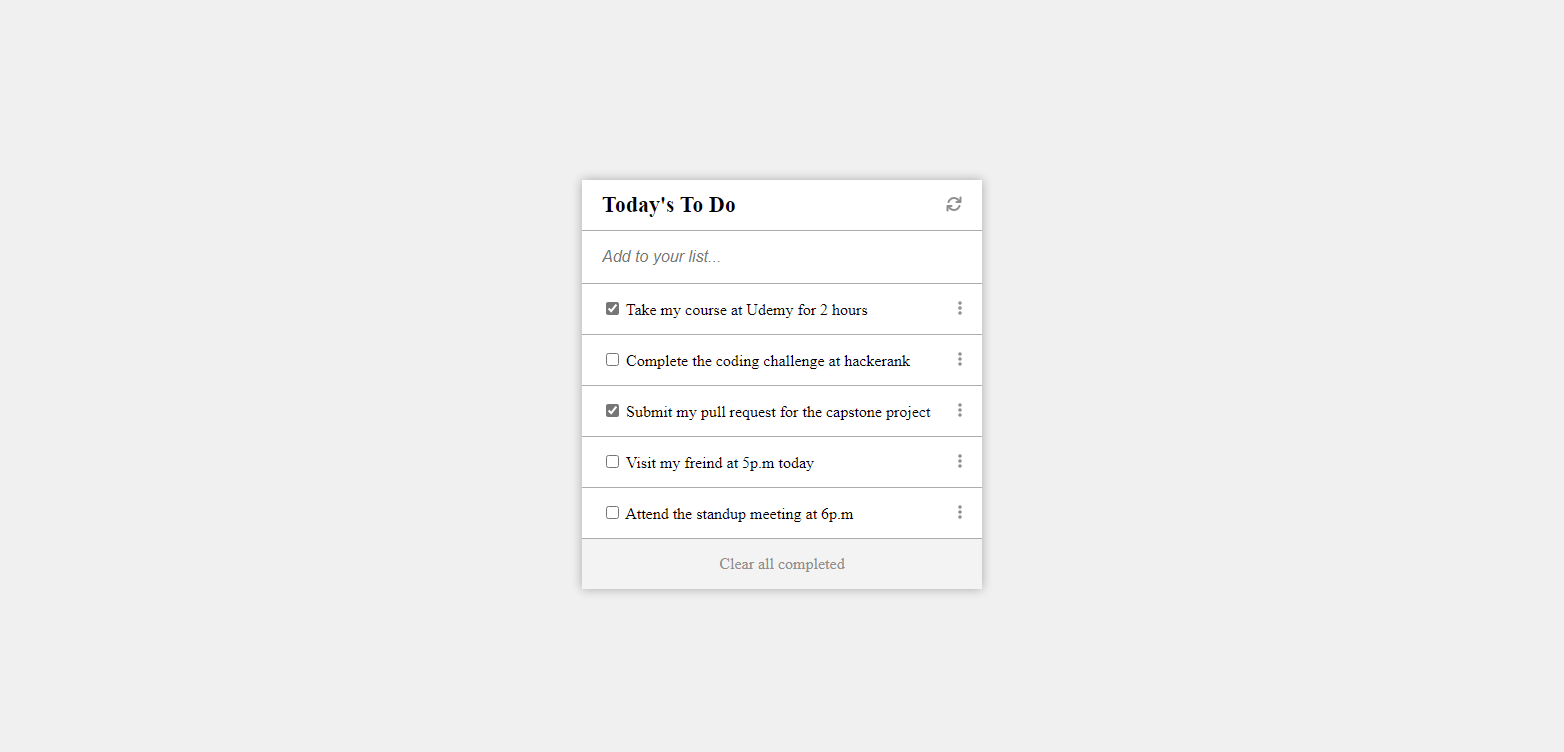
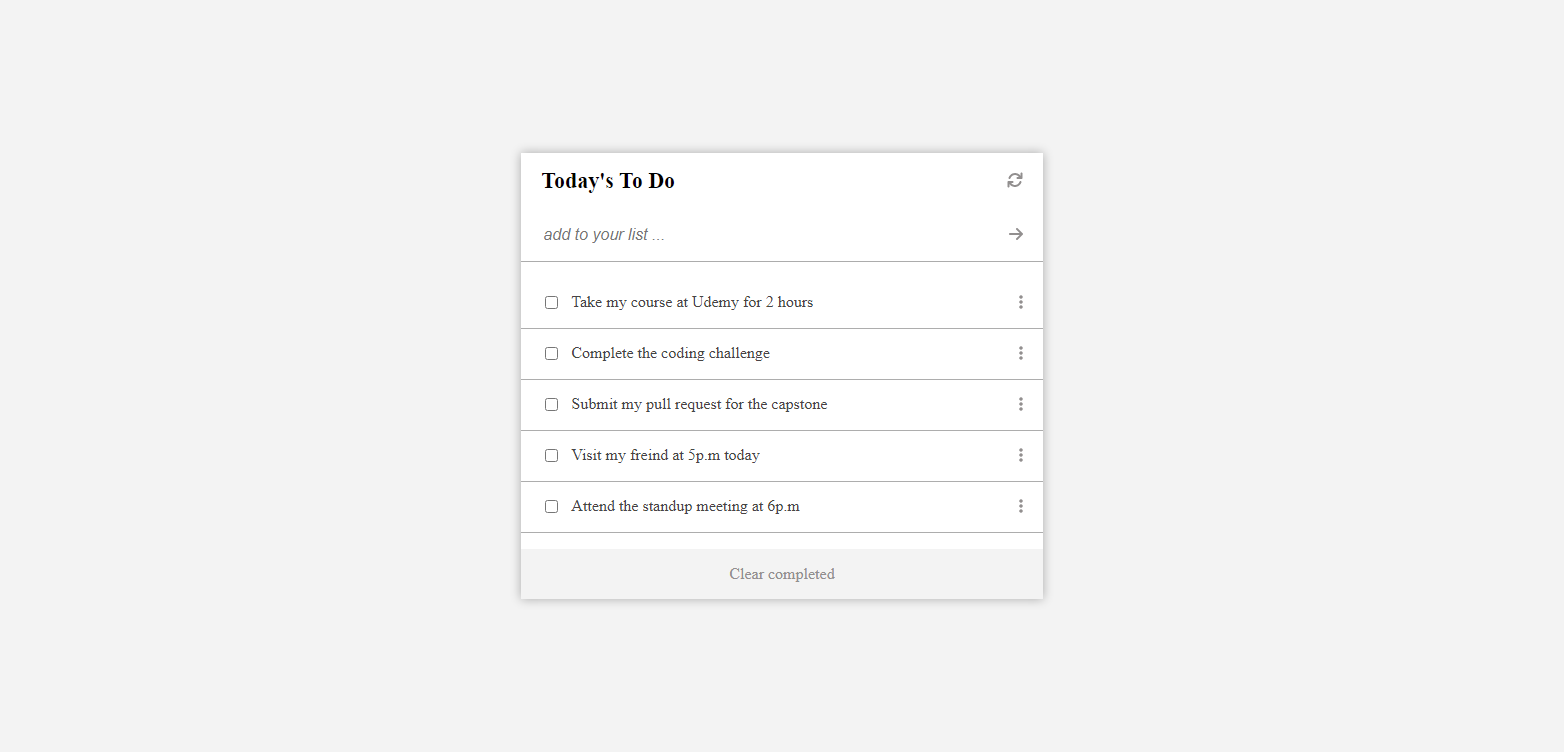
Todo list structure

Changed region(s): [[0.3376, 0.2141, 0.6752, 0.734], [0.3683, 0.734, 0.6138, 0.7952]]

diff --git a/src/style.css b/src/style.css
@@ -1,15 +1,24 @@
-* {
+body {
+  box-sizing: border-box;
   margin: 0;
   padding: 0;
-  box-sizing: border-box;
-}
-html {
-  height: 100%;
-}
-body {
   min-height: 100vh;
-  margin: 0 auto;
-  background-color: #f0f0f0;
+  height: 100%;
+  background-color: #f3f3f3;
+}
+
+.main-container {
+  display: grid;
+  grid-template-columns: repeat(12, 1fr);
+  grid-template-rows: 1fr 1fr 1fr;
+  height: 100vh;
+}
+
+.form {
+  grid-column: 5/9;
+  grid-row: 2/3;
+  background-color: white;
+  box-shadow: 0 0 10px rgba(0, 0, 0, 0.3);
 }
 
 .todo-list {
@@ -19,23 +28,18 @@ body {
   padding: 0;
 }
 
-.form {
-  display: flex;
-  flex-direction: column;
-  height: auto;
-  width: 100%;
-  background-color: white;
-  box-shadow: 0 0 10px rgba(0, 0, 0, 0.3);
-}
-
 .input-todo {
   height: 50px;
   border: none;
-  padding-left: 20px;
-  padding-right: 20px;
-  width: 90%;
   font-style: italic;
   font-size: 16px;
+}
+
+.title-wrapper {
+  display: flex;
+  align-items: center;
+  justify-content: space-between;
+  padding: 0 20px;
 }
 
 .title {
@@ -51,21 +55,18 @@ body {
   height: 50px;
   align-items: center;
   justify-content: center;
-  /* background-color: #f3f3f3; */
-  background-color: darkgrey;
+  background-color: #f3f3f3;
 }
 
 .myFooter a {
   text-decoration: none;
-  /* color: #928f8f; */
-  color: black;
+  color: #928f8f;
 }
 
 .main-header {
   width: 100%;
   height: 100px;
   background-color: #928f8f;
-  /* margin-top: -60px; */
 }
 
 .myFooter a:hover {
@@ -95,6 +96,7 @@ body {
   align-items: center;
   justify-content: space-between;
   border-bottom: 1px solid rgb(172, 172, 172);
+  padding: 0 20px;
 }
 
 .header {
@@ -103,7 +105,6 @@ body {
   justify-content: space-between;
   align-items: center;
   height: 50px;
-  width: 100%;
   padding-left: 20px;
   padding-right: 20px;
   border-bottom: 1px solid rgb(172, 172, 172);
@@ -113,52 +114,30 @@ body {
   color: rgb(71, 69, 69);
 }
 
-.main-container {
+.content {
+  justify-content: space-between;
   display: flex;
-  justify-content: center;
-  flex-direction: column;
-  align-items: center;
-  height: 100vh;
-  /* width: 500px; */
-  /* margin-top: -30px; */
+  column-gap: 10px;
 }
 
-.content {
+.content span {
   color: rgb(71, 69, 69);
 }
 
 @media screen and (min-width: 320px) {
-  .main-container {
-    width: 90%;
-    margin-left: auto;
-    margin-right: auto;
-  }
-}
-@media screen and (min-width: 768px) {
-  .main-container {
-    width: 80%;
-    margin-left: auto;
-    margin-right: auto;
-  }
   .form {
-    width: 80%;
-  }
-  .myFooter {
-    width: 100%;
+    grid-column: 3/11;
   }
 }
-@media screen and (min-width: 1024px) {
-  .main-container {
-    width: 60%;
-    margin-left: auto;
-    margin-right: auto;
+
+@media screen and (min-width: 768px) {
+  .form {
+    grid-column: 4/10;
   }
 }
 
 @media screen and (min-width: 1440px) {
-  .main-container {
-    width: 50%;
-    margin-left: auto;
-    margin-right: auto;
+  .form {
+    grid-column: 5/9;
   }
 }

diff --git a/src/modules.js b/src/modules.js
@@ -26,43 +26,4 @@ export const todoList = [
   },
 ];
 
-export const outerHeader = document.createElement('header');
-outerHeader.classList.add('main-header');
 export const todoListElement = document.querySelector('.todo-list');
-export const form = document.createElement('form');
-export const header = document.createElement('div');
-export const headerText = document.createElement('h1');
-export const clear = document.createElement('a');
-clear.href = '#';
-headerText.classList.add('title');
-export const headerImg = document.createElement('span');
-
-headerText.innerHTML = "Today's To Do";
-headerImg.innerHTML =
-  "<span class='icon'><i class='fa-solid fa-arrows-rotate'></i></span>";
-header.classList.add('header');
-export const footer = document.createElement('div');
-footer.classList.add('myFooter');
-clear.innerHTML = 'Clear all completed';
-
-export const inputContainer = document.createElement('div');
-inputContainer.classList.add('input-container');
-export const inputTodo = document.createElement('input');
-export const refreshImg = document.createElement('i');
-refreshImg.style.color = '#928f8f';
-inputTodo.placeholder = 'Add to your list...';
-
-export const mainContainer = document.createElement('div');
-
-export const append = () => {
-  inputContainer.appendChild(inputTodo);
-  inputContainer.appendChild(refreshImg);
-  inputTodo.classList.add('input-todo');
-  footer.appendChild(clear);
-  header.appendChild(headerText);
-  header.appendChild(headerImg);
-  form.appendChild(header);
-  form.appendChild(inputContainer);
-  form.classList.add('form');
-  mainContainer.classList.add('main-container');
-};

diff --git a/src/index.js b/src/index.js
@@ -1,50 +1,28 @@
 import '@fortawesome/fontawesome-free/js/all.js';
-import {
-  todoList,
-  todoListElement,
-  form,
-  footer,
-  mainContainer,
-  outerHeader,
-  inputTodo,
-  header,
-  refreshImg,
-  headerText,
-  headerImg,
-  clear,
-  append,
-  inputContainer,
-} from './modules.js';
+import { todoList, todoListElement } from './modules.js';
 
 import('./style.css');
 
-// document.body.appendChild(outerHeader);
 const todo = () => {
-  append();
-
   todoList.forEach((todo) => {
     const { completed, description } = todo;
-    let todoElement = document.createElement('li');
-    todoElement.innerHTML = `
-                  <div class='list-row'>
+    const todoElement = document.createElement('li');
+    let list = '';
+    list += `
                     <div class='content'>
                        <input type="checkbox" ${
-                         completed ? 'checked' : ''
-                       } class='input' />
+  completed ? 'checked' : ''
+} class='input' />
                         <span>${description}</span>
                     </div>
                    <span class='icon'>
                    <i class="fa-solid fa-ellipsis-vertical"></i>
                    </span>
-                    </div>
                     `;
+    todoElement.innerHTML = list;
+    todoElement.classList.add('list-row');
     todoListElement.appendChild(todoElement);
-    form.appendChild(todoListElement);
-    mainContainer.appendChild(form);
-    document.body.appendChild(mainContainer);
   });
-
-  form.insertBefore(footer, form.childNodes[3]);
 };
 
 window.addEventListener('DOMContentLoaded', todo);

diff --git a/src/index.html b/src/index.html
@@ -6,6 +6,28 @@
     <title>Wbpack Exercise</title>
   </head>
   <body>
-    <ul class="todo-list"></ul>
+    <main class="main-container">
+      <form class="form">
+        <div class="title-wrapper">
+          <h1 class="title">Today's To Do</h1>
+          <span class="icon">
+            <i class="fa-solid fa-arrows-rotate"></i>
+          </span>
+        </div>
+
+        <div class="input-container">
+          <input
+            type="text"
+            class="input-todo"
+            placeholder="add to your list ..."
+          />
+          <span class="icon"><i class="fa-solid fa-arrow-right"></i></span>
+        </div>
+        <ul class="todo-list"></ul>
+        <div class="myFooter">
+          <a href="#">Clear completed</a>
+        </div>
+      </form>
+    </main>
   </body>
 </html>
